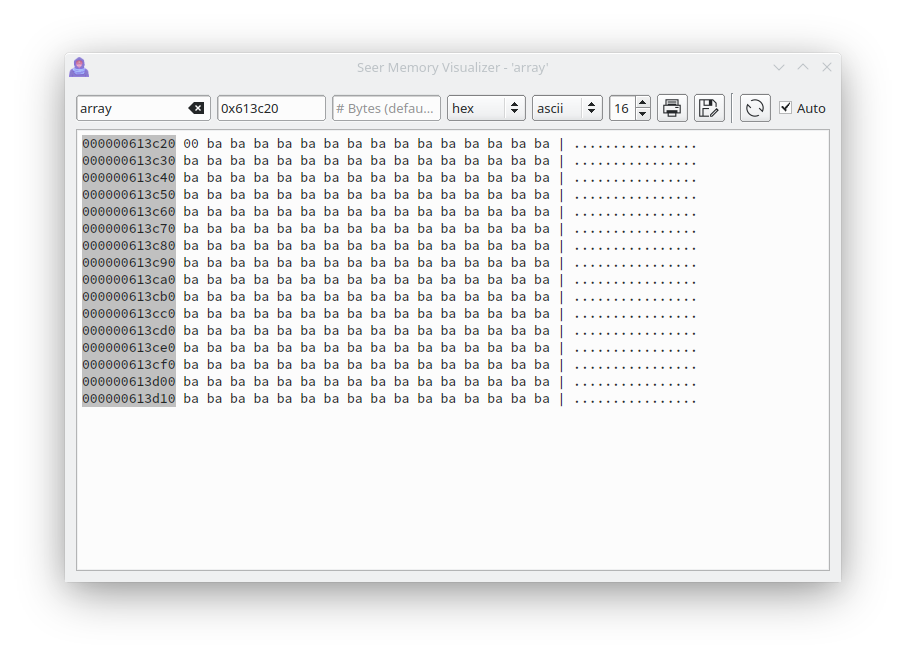
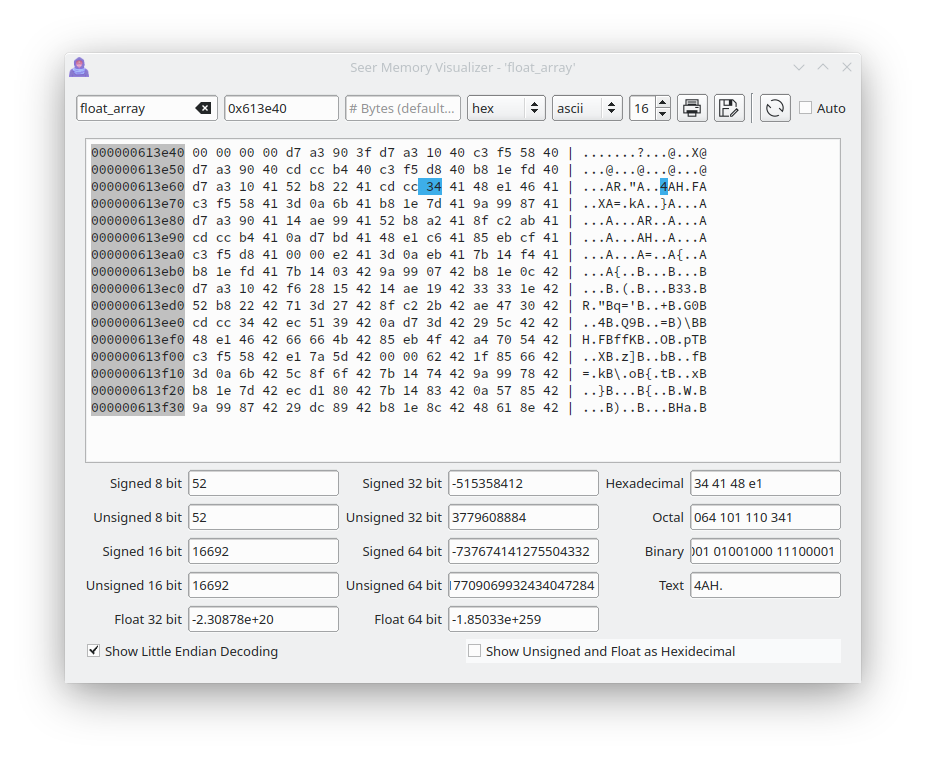
Finished modifying memory visualizer.
Still want to add 'disassembly' mode.

Changed region(s): [[0.0618, 0.0607, 0.9272, 0.9105]]

diff --git a/src/SeerHexWidget.cpp b/src/SeerHexWidget.cpp
@@ -284,6 +284,10 @@ void SeerHexWidget::handleByteOffsetChanged (int byte) {
     lineEdit_8->setText("");
     lineEdit_9->setText("");
     lineEdit_10->setText("");
+    lineEdit_11->setText("");
+    lineEdit_12->setText("");
+    lineEdit_13->setText("");
+    lineEdit_14->setText("");
 
     // Remove previous highlight.
     plainTextEdit->setExtraSelections(QList<QTextEdit::ExtraSelection>());
@@ -446,6 +450,88 @@ void SeerHexWidget::handleByteOffsetChanged (int byte) {
                 lineEdit_10->setText(QString::number(toQFloat64(arr, byteOrder)));
             }
         }
+    }
+
+    {
+        QString    val;
+        QByteArray arr = _pdata->getData(byte, 4);
+
+        for (int i=0; i<arr.size(); i++) {
+
+            unsigned char ch = arr[i];
+
+            if (val != "") {
+                val += " ";
+            }
+
+            val += QString("%1").arg(ushort(ch), int(2), int(16), QChar('0'));
+        }
+
+        lineEdit_11->setText(val);
+    }
+
+    {
+        QString    val;
+        QByteArray arr = _pdata->getData(byte, 4);
+
+        for (int i=0; i<arr.size(); i++) {
+
+            unsigned char ch = arr[i];
+
+            if (val != "") {
+                val += " ";
+            }
+
+            val += QString("%1").arg(ushort(ch), int(3), int(8), QChar('0'));
+        }
+
+        lineEdit_12->setText(val);
+    }
+
+    {
+        QString    val;
+        QByteArray arr = _pdata->getData(byte, 4);
+
+        for (int i=0; i<arr.size(); i++) {
+
+            unsigned char ch = arr[i];
+
+            if (val != "") {
+                val += " ";
+            }
+
+            val += QString("%1").arg(ushort(ch), int(8), int(2), QChar('0'));
+        }
+
+        lineEdit_13->setText(val);
+    }
+
+    {
+        QString    val;
+        QByteArray arr = _pdata->getData(byte, 4);
+
+        // Print N bytes in their char value.
+        if (charMode() == SeerHexWidget::AsciiCharMode) {
+            for (int i=0; i<arr.size(); i++) {
+
+                unsigned char ch = Seer::ucharToAscii( arr[i] );
+
+                val += QString(ch);
+            }
+
+        }else if (charMode() == SeerHexWidget::EbcdicCharMode) {
+            for (int i=0; i<arr.size(); i++) {
+
+                unsigned char ch = Seer::ebcdicToAscii( arr[i] );
+
+                val += QString(ch);
+            }
+
+        }else{
+            // Don't print anything.
+        }
+
+        lineEdit_14->setText(val);
     }
 }
 
